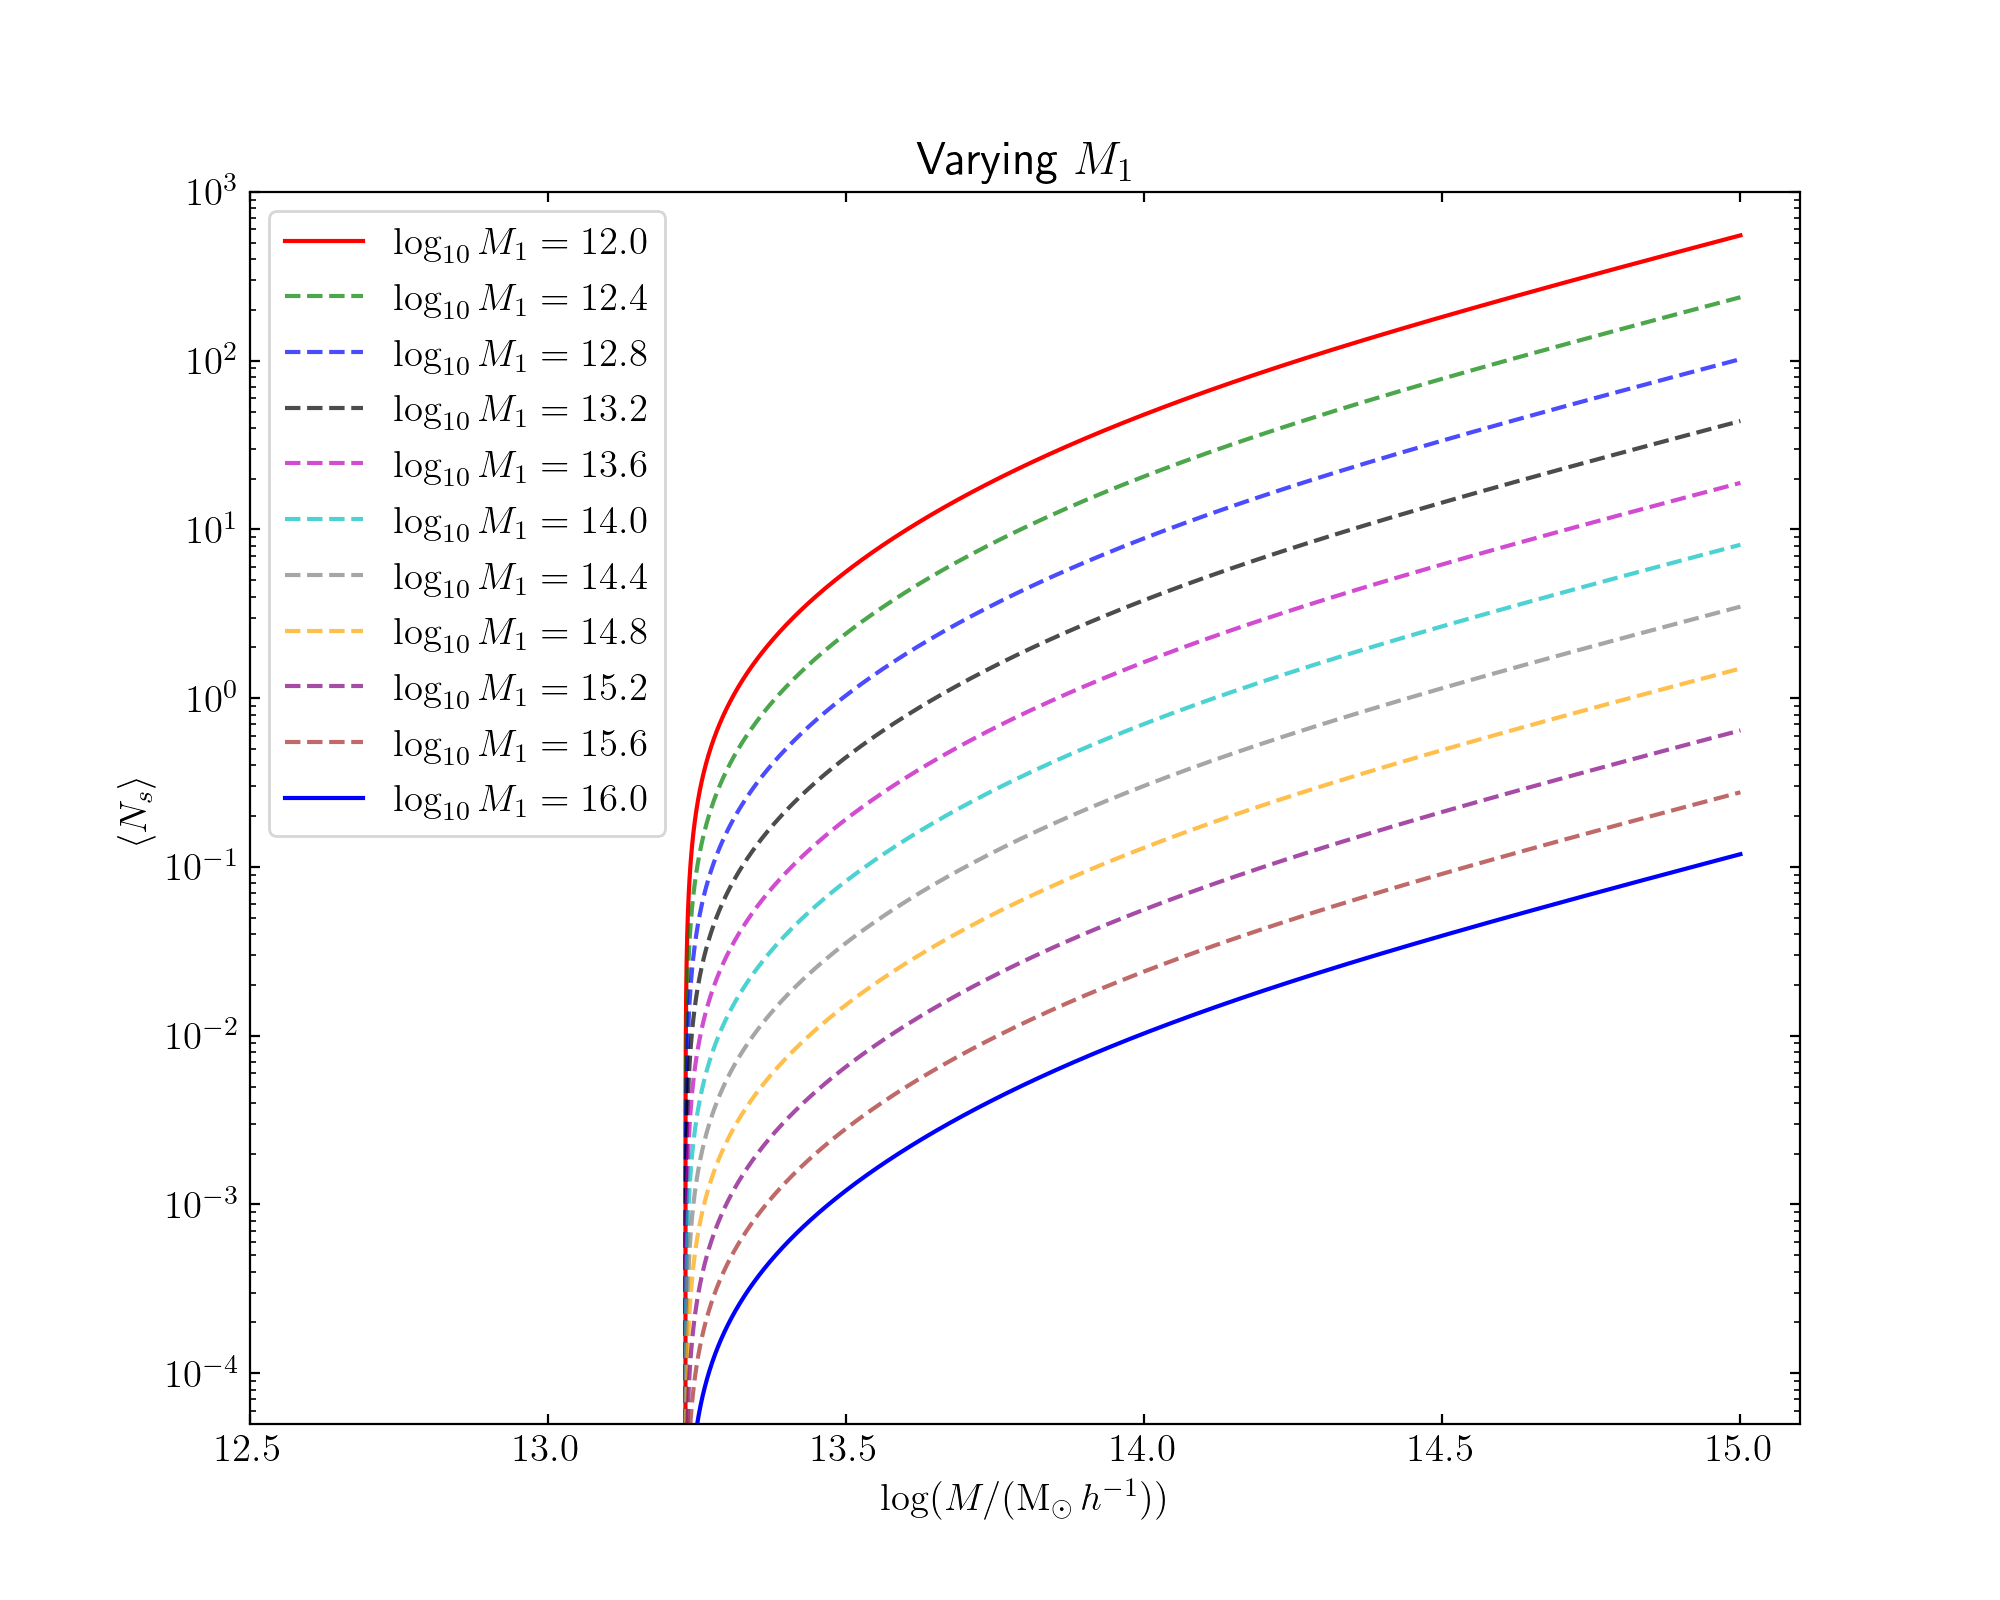
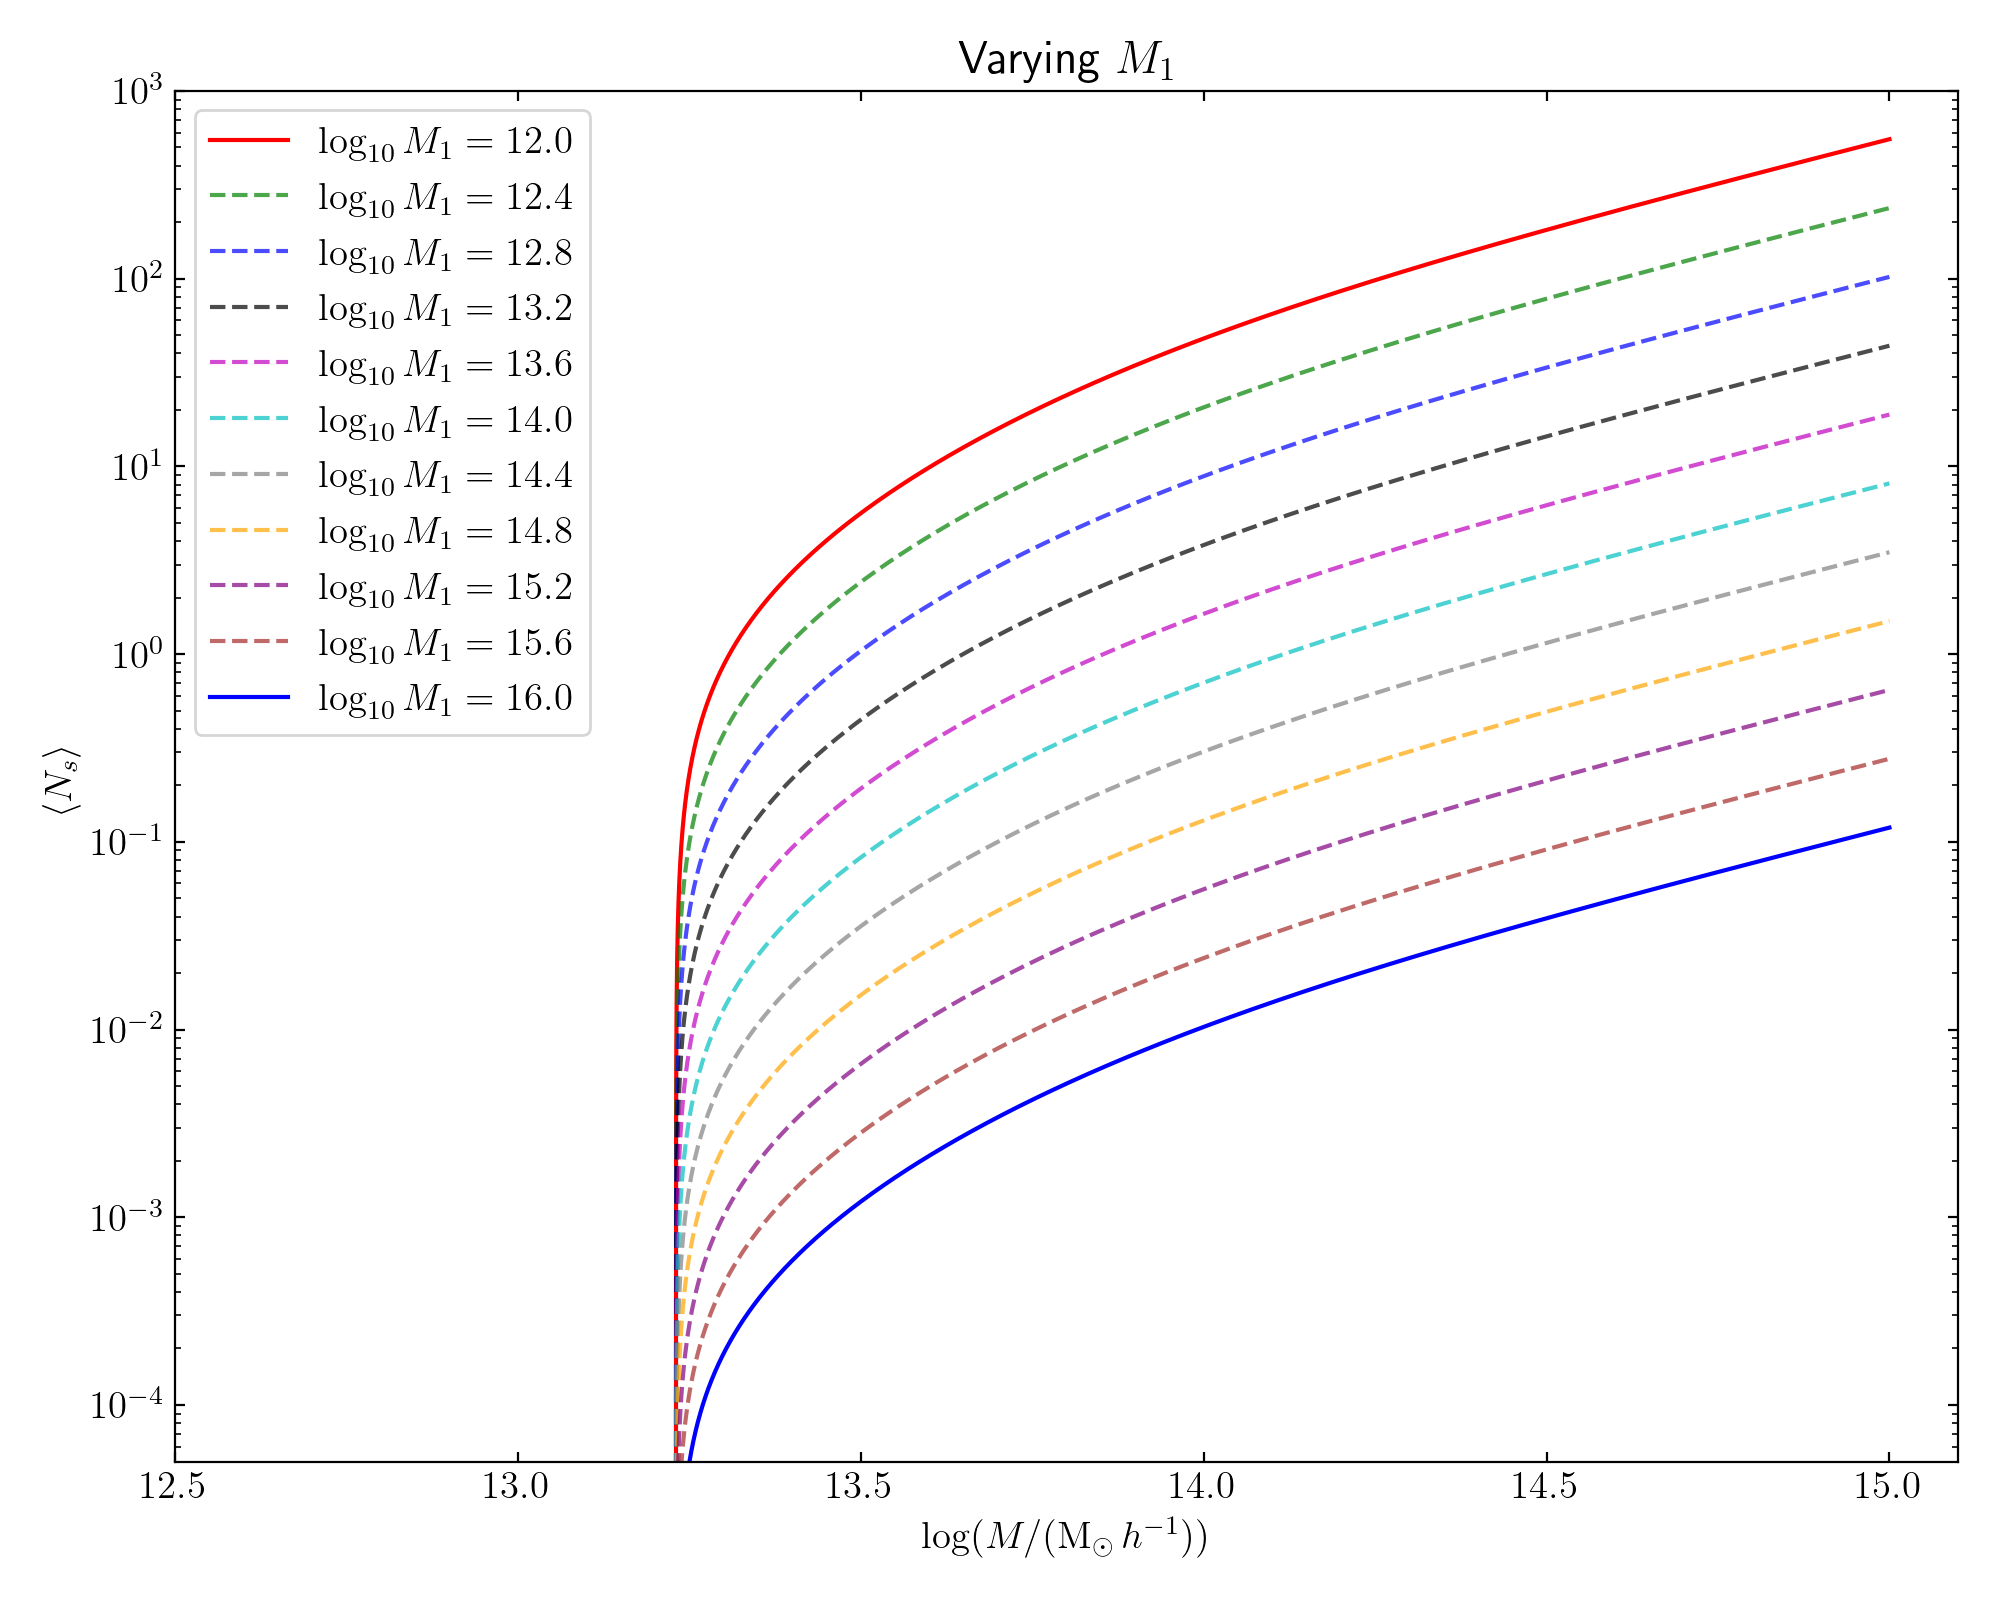
new plots

diff --git a/HaloModel/individual_HOD_parameter_variation/plot_occupation_numbers_varying_single_params.py b/HaloModel/individual_HOD_parameter_variation/plot_occupation_numbers_varying_single_params.py
@@ -227,6 +227,7 @@ def plot_logMmin_Nc(save=SAVE):
     if save:
         title = Path(f"./plots/occ_varying_logMmin_Nc.png")
         print(f"Saving to {title}")
+        logMmin.tight_layout()
         logMmin.savefig(title, dpi=200)
         logMmin.clf()
     else:
@@ -238,6 +239,7 @@ def plot_logMmin_Ns(save=SAVE):
     if save:
         title = Path(f"./plots/occ_varying_logMmin_Ns.png")
         print(f"Saving to {title}")
+        logMmin.tight_layout()
         logMmin.savefig(title, dpi=200)
         logMmin.clf()
     else:
@@ -250,6 +252,7 @@ def plot_logM1(save=SAVE):
     if save:
         title = Path(f"./plots/occ_varying_logM1.png")
         print(f"Saving to {title}")
+        logM1.tight_layout()
         logM1.savefig(title, dpi=200)
         logM1.clf()
     else:
@@ -262,6 +265,7 @@ def plot_kappa(save=SAVE):
     if save:
         title = Path(f"./plots/occ_varying_kappa.png")
         print(f"Saving to {title}")
+        kappa.tight_layout()
         kappa.savefig(title, dpi=200)
         kappa.clf()
     else:
@@ -274,6 +278,7 @@ def plot_alpha(save=SAVE):
     if save:
         title = Path(f"./plots/occ_varying_alpha.png")
         print(f"Saving to {title}")
+        alpha.tight_layout()
         alpha.savefig(title, dpi=200)
         alpha.clf()
     else:
